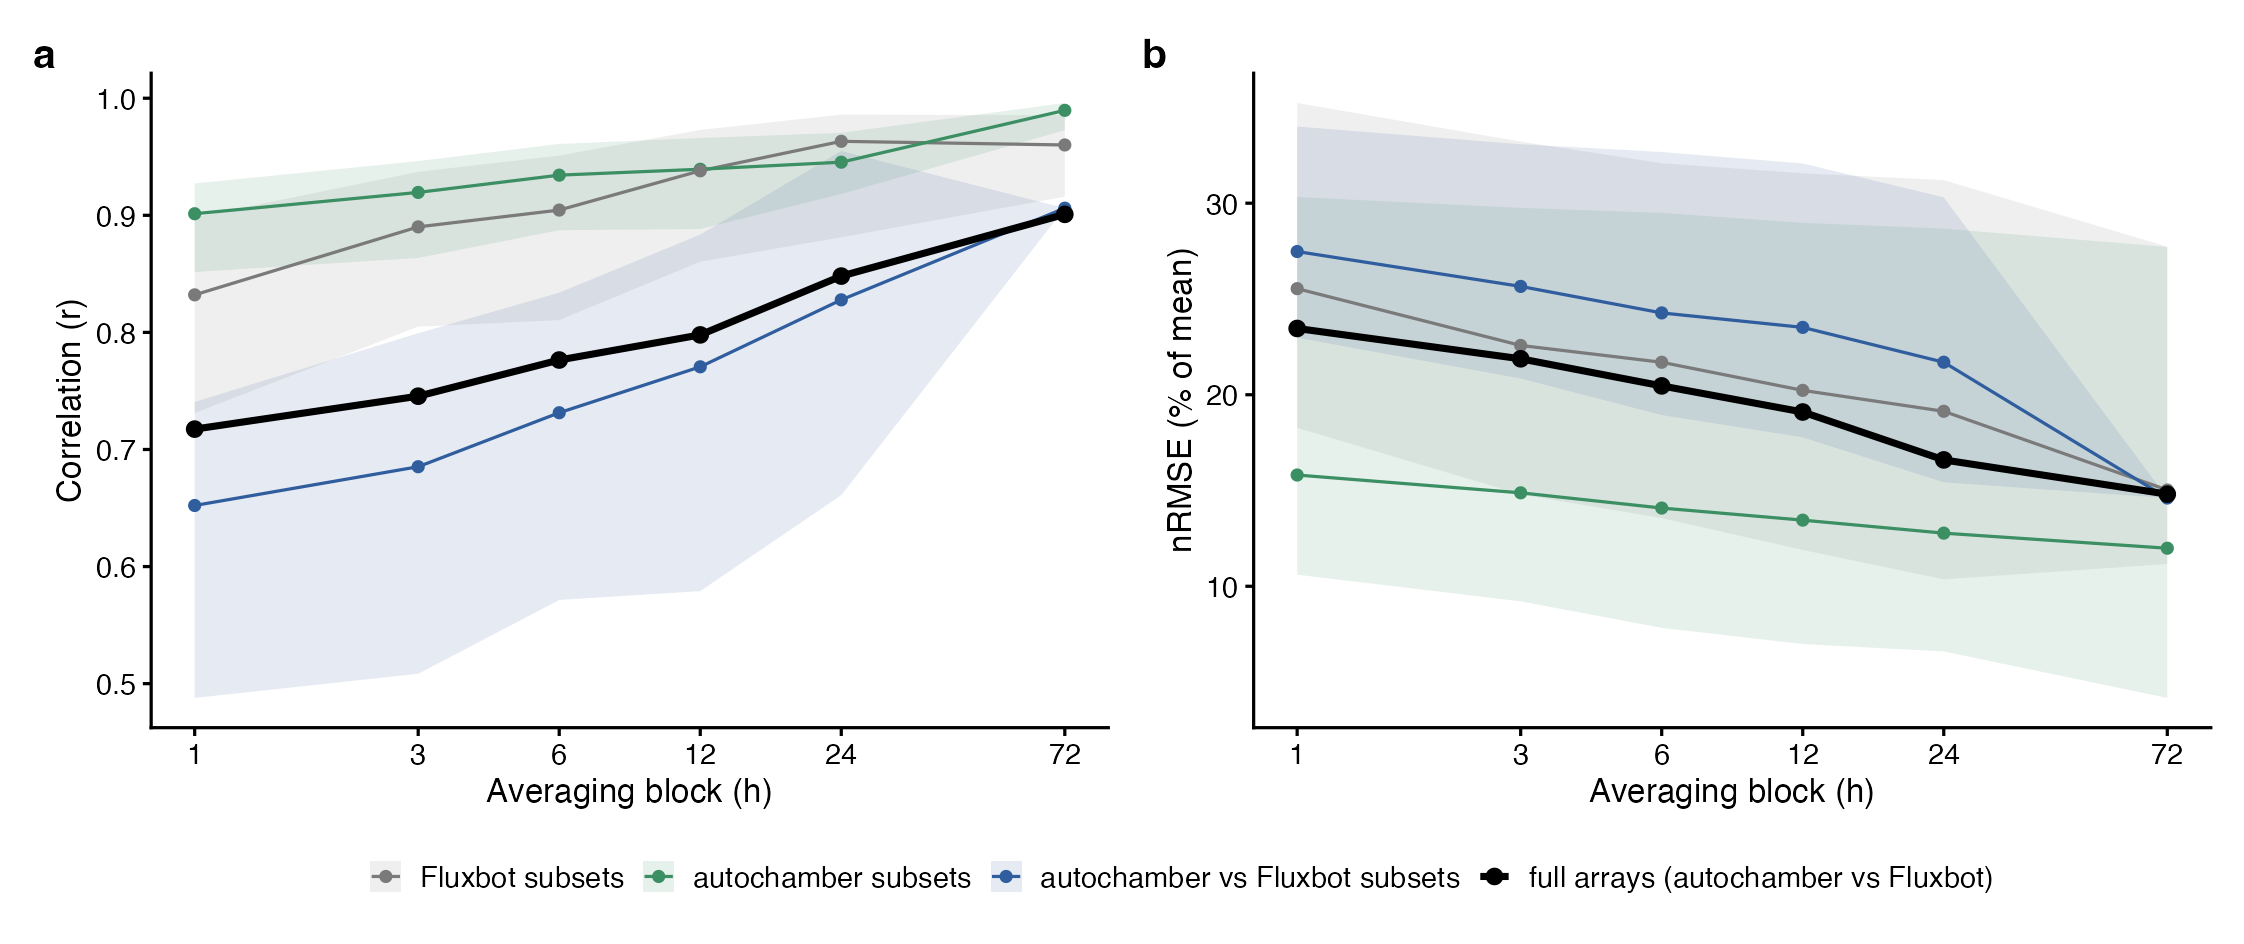
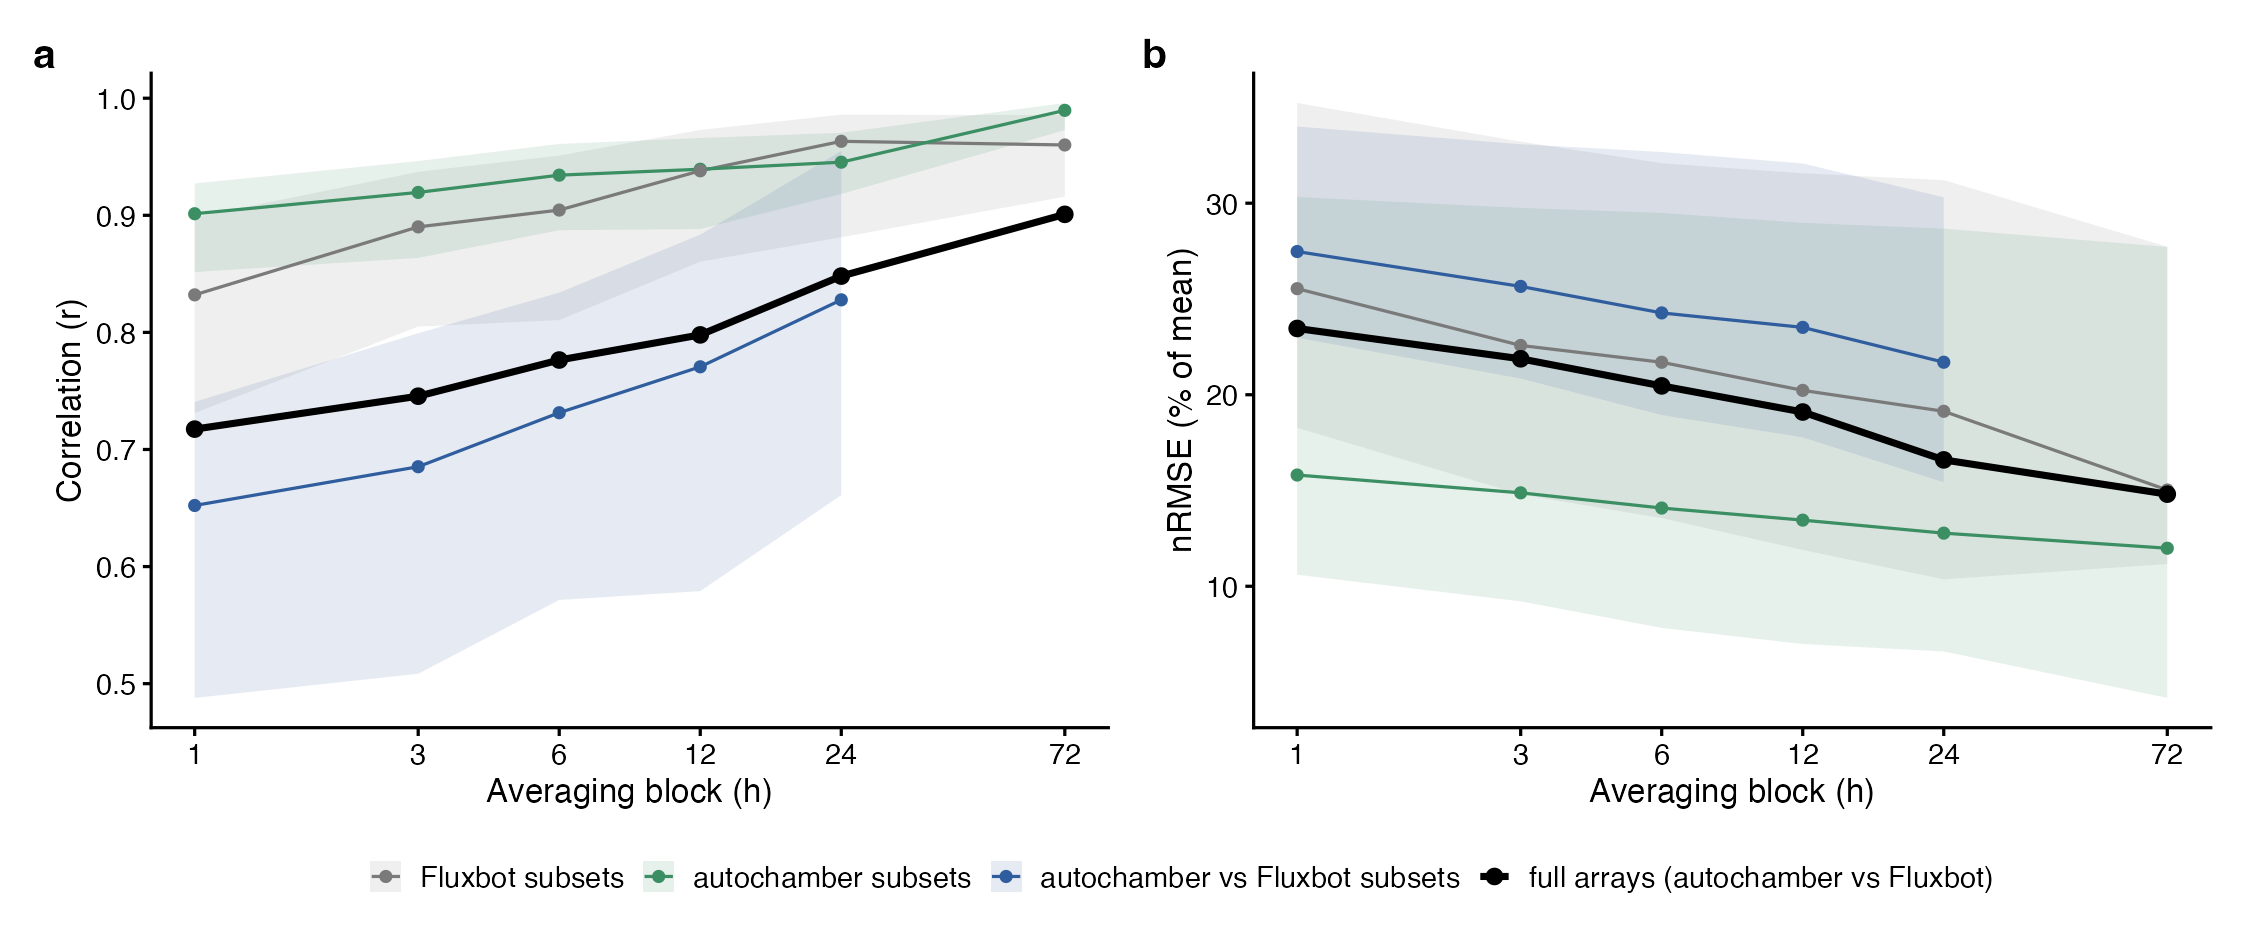
Pre-submission review fixes: wet-class boundary labels, Fig S5 72-h cross-system point, SI table headings, README scope
- 15_wet_selection_bias.R: label classes "half or fewer wet" / "more than half wet" to match the cut (exactly half falls in the lower class); keys le_half_wet / gt_half_wet
- figS05: omit the cross-system subset summary at 72 h (only one draw qualified)
- SI tables: "Offset" for the signed difference; "3-h system means"
- setup.R: comment now names model selection as the main flux model
- READMEs: closure tables hold records that reached the flux-output stage; qc_log wet-sensor rows are within retained; pressure fallback ratio; pipeline scope (Fig. 1 is a photograph)

Changed region(s): [[0.3743, 0.215, 0.4679, 0.5222], [0.8734, 0.3994, 0.9046, 0.4301]]

diff --git a/manuscript_code/README.md b/manuscript_code/README.md
@@ -1,6 +1,6 @@
 # Analysis code
 
-This code reproduces every flux, dataset, number, figure and table in the paper from the raw data in `../data_package/`. Run it from this folder:
+This code recomputes every flux from the raw data in `../data_package/` and regenerates the cleaned datasets, the analytical results and every number quoted in the paper, the analysis figures (Figs. 2–6 and S1–S8; Fig. 1 is a field photograph) and the SI tables. Run it from this folder:
 
 ```
 Rscript run_all.R                  # everything (~11 min on a laptop, ~2 min of it flux calculation; parallel, macOS/Linux)
@@ -20,10 +20,10 @@ SKIP_FLUXES=1 Rscript run_all.R    # reuse ../data_clean/fluxes/
 ../data_package/          raw records, metadata, ancillary (HF001, HF293), lab-test raw data
       |  1_clean/01-02    flux calculation (goFlux), both systems, one procedure
       v
-../data_clean/fluxes/     one row per closure, every closure (25 Sep - 5 Nov 2023), before QC
-      |  1_clean/03       data hygiene: QC flags, status of every closure, analysis datasets
+../data_clean/fluxes/     one row per closure that reached the flux-output stage (25 Sep - 5 Nov 2023), before QC
+      |  1_clean/03       data hygiene: QC flags, status of each computed closure, analysis datasets
       v
-../data_clean/            closures_{fluxbot,autochamber}.csv   every closure in 2-31 Oct + QC flags + qc_status
+../data_clean/            closures_{fluxbot,autochamber}.csv   computed closures in 2-31 Oct + QC flags + qc_status
                           chamber_hours_deployed.csv           as-deployed dataset (wet sensors kept)
                           chamber_hours_screened.csv           MAIN dataset (RH-screened)
                           qc_log.csv, data_dictionary.csv
@@ -99,7 +99,7 @@ The same goFlux procedure is used for both systems.
 | **1_clean** | | |
 | `01_fluxes.R` | Per-closure fluxes for both systems from the raw records; wet-sensor and stuck-lid flags | Methods |
 | `02_fluxes_window56.R` | Fluxbot fluxes with the 56:00 window (sensitivity) | Fig. S2 |
-| `03_clean_datasets.R` | QC status of every closure; as-deployed and RH-screened chamber-hour datasets; QC log; data dictionary | Methods 2.7 |
+| `03_clean_datasets.R` | QC status of each computed closure; as-deployed and RH-screened chamber-hour datasets; QC log; data dictionary | Methods 2.7 |
 | **2_analysis** | | |
 | `01_station_pressure.R` | Station pressure vs HF001 sea-level pressure | Methods |
 | `02_main_analyses.R` | GAM stand and system effects, TOST, variance components, array agreement, diel cycle, Q10, sampling effort, sensitivity table | Results, Table S2 |

diff --git a/data_clean/README.md b/data_clean/README.md
@@ -8,15 +8,17 @@ Rscript run_all.R
 
 Column definitions are in `data_dictionary.csv`.
 
+The closure tables contain records that reached the flux-output stage. For intended, recorded and computed counts, see `manuscript_code/outputs/si_tables/TableS_accounting.csv`.
+
 | File | Contents | Made by |
 |---|---|---|
-| `fluxes/fluxbot_fluxes.csv`, `fluxes/autochamber_fluxes.csv` | One row per closure, every closure 25 Sep–5 Nov 2023, before QC. Includes linear and Hutchinson–Mosier fluxes (goFlux), fit statistics, gas-law inputs, and the wet-sensor and stuck-lid flags | `1_clean/01_fluxes.R` |
+| `fluxes/fluxbot_fluxes.csv`, `fluxes/autochamber_fluxes.csv` | One row per closure that reached the flux-output stage, 25 Sep–5 Nov 2023, before QC. Includes linear and Hutchinson–Mosier fluxes (goFlux), fit statistics, gas-law inputs, and the wet-sensor and stuck-lid flags | `1_clean/01_fluxes.R` |
 | `fluxes/fluxbot_fluxes_w56.csv` | Fluxbot fluxes with the 56:00–60:00 fit window (sensitivity analysis) | `1_clean/02_fluxes_window56.R` |
-| `fluxes/flux_run_metadata.csv` | Instrument precision and the station/HF001 pressure ratio used by the flux run | `1_clean/01_fluxes.R` |
-| `closures_fluxbot.csv`, `closures_autochamber.csv` | Every closure in the analysis period (2–31 Oct 2023): flux columns, QC flags, `qc_status`, `in_deployed`, `in_screened` | `1_clean/03_clean_datasets.R` |
+| `fluxes/flux_run_metadata.csv` | Instrument precision and the station/HF001 pressure ratio used by the flux run (`pressure_ratio_local_hf001`, 0.9597; the fallback when no LPS22 pressure was available) | `1_clean/01_fluxes.R` |
+| `closures_fluxbot.csv`, `closures_autochamber.csv` | Computed closures in the analysis period (2–31 Oct 2023): flux columns, QC flags, `qc_status`, `in_deployed`, `in_screened` | `1_clean/03_clean_datasets.R` |
 | `chamber_hours_screened.csv` | **Main analysis dataset ("RH-screened")**: one row per chamber-hour of retained closures, wet-sensor Fluxbot closures removed, with HF001 soil and air temperature, pressure and precipitation | `1_clean/03_clean_datasets.R` |
 | `chamber_hours_deployed.csv` | As-deployed dataset (wet-sensor closures kept; sensitivity analysis) | `1_clean/03_clean_datasets.R` |
-| `qc_log.csv` | Number of closures at each QC status, by system | `1_clean/03_clean_datasets.R` |
+| `qc_log.csv` | Number of closures at each QC status, by system. The 661 wet-sensor Fluxbot closures are included in the 6,962 retained Fluxbot closures | `1_clean/03_clean_datasets.R` |
 
 ## Data-hygiene rules
 

diff --git a/README.md b/README.md
@@ -7,7 +7,7 @@ Data and code for the manuscript "Low-cost autonomous chambers enable high spati
 | Folder | Contents |
 |---|---|
 | `data_package/` | Raw data: every Fluxbot sensor record, 1 Hz autochamber CO2, unit and chamber metadata, HF001 met and HF293 extracts, and raw data from two laboratory tests of the Fluxbot CO2 sensor. See its README and `data_dictionary.csv`. |
-| `data_clean/` | Cleaned datasets generated from the raw data: per-closure fluxes, the QC status of every closure, and the chamber-hour datasets used by all analyses. See its README. |
+| `data_clean/` | Cleaned datasets generated from the raw data: per-closure fluxes, the QC status of each computed closure, and the chamber-hour datasets used by all analyses. See its README. |
 | `manuscript_code/` | Analysis code. `run_all.R` runs, in order: `1_clean/` (fluxes and data hygiene), `2_analysis/`, `3_lab_tests/`, `4_figures/` (one script per figure), `5_tables/`. Outputs, including every number quoted in the paper, are in `manuscript_code/outputs/`. See its README. |
 | `legacy/` | Repository only (not in the Zenodo archive): earlier scripts and the raw spreadsheet exports from which `data_package/` was assembled by `data_package/build_data_package.R`. Not used by the analysis. |
 
